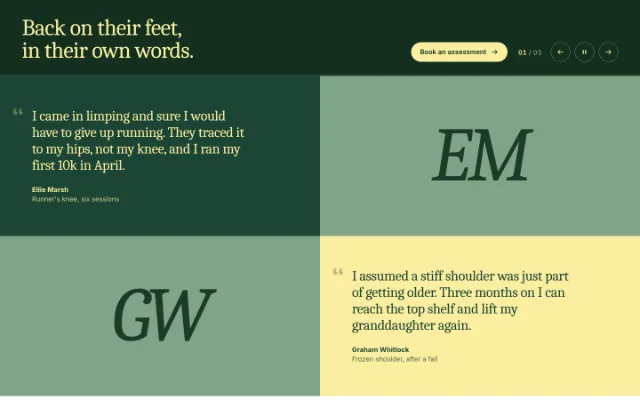
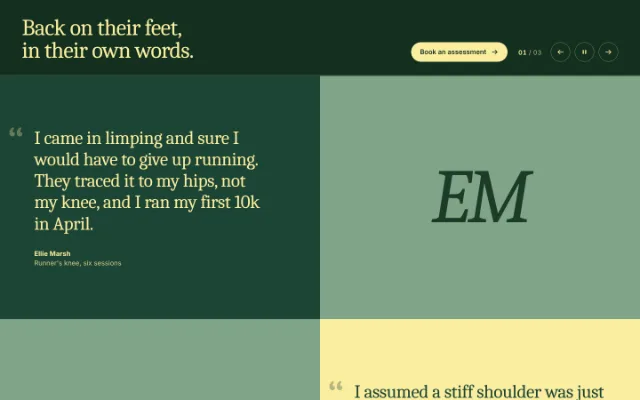
checker-quilt-testimonials: round 3 fixes
Faint mark that survives the entrance, one quote size per page, width-driven
4:3 tiles, centred quote column, phone pairs that still invert, stat/logo
plates, Unsplash srcset and an eager first page.

Claude-Session: https://claude.ai/code/session_014Z14Nfh3LUDx3ZeVcpeBG7

Changed region(s): [[0.0, 0.27, 1.0, 0.87], [0.0, 0.96, 1.0, 1.0], [0.5312, 0.87, 0.6875, 0.93]]

diff --git a/components/checker-quilt-testimonials/checker-quilt-testimonials.tsx b/components/checker-quilt-testimonials/checker-quilt-testimonials.tsx
@@ -48,6 +48,9 @@ export type Testimonial = {
   alt?: string
   /** CSS object-position for the portrait, e.g. "50% 30%". */
   focus?: string
+  /** Without a photo: a company logo URL for the plate, or a figure such as { value: "9 → 4", label: "days to close the month" }. */
+  logo?: string
+  stat?: { value: string; label: string }
 }
 
 export type CheckerQuiltTestimonialsProps = {
@@ -161,6 +164,14 @@ export function fitSize(lo: number, hi: number, fits: (n: number) => boolean): n
     else b = mid
   }
   return a
+}
+
+/** A width-based srcset for an images.unsplash.com URL; empty for any other host. */
+export function unsplashSrcSet(url: string): string {
+  if (!/^https:\/\/images\.unsplash\.com\//.test(url)) return ""
+  const base = url.replace(/([?&])w=\d+&?/, "$1").replace(/[?&]$/, "")
+  const sep = base.includes("?") ? "&" : "?"
+  return [600, 1200, 1800].map((w) => base + sep + "w=" + w + " " + w + "w").join(", ")
 }
 
 export function initials(name: string): string {
@@ -282,6 +293,10 @@ const css = `
 .cqt-photo[data-at="start"] { left: 0; }
 .cqt-photo[data-at="end"] { right: 0; }
 .cqt-plate { position: absolute; inset: 0; display: grid; place-items: center; color: var(--cq-plate-ink); background: var(--cq-plate); }
+.cqt-stat { display: grid; justify-items: center; gap: 10px; padding: 24px; text-align: center; }
+.cqt-stat b { font-family: var(--cq-qf); font-weight: 400; font-size: clamp(48px, 7cqi, 112px); line-height: 1; letter-spacing: -0.03em; }
+.cqt-stat span { font-size: 15px; line-height: 1.35; max-width: 22ch; opacity: 0.85; }
+.cqt-logo { width: 46%; height: 34%; object-fit: contain; max-width: none; }
 .cqt-mono { font-family: var(--cq-qf); font-style: italic; font-size: clamp(72px, 12cqi, 190px); line-height: 1; letter-spacing: -0.04em; opacity: 0.9; user-select: none; }
 .cqt-img { position: absolute; inset: 0; width: 100%; height: 100%; max-width: none; object-fit: cover; opacity: 0; transition: opacity 360ms ease; }
 .cqt-img[data-loaded="1"] { opacity: 1; }
@@ -297,13 +312,13 @@ const css = `
 
 .cqt-sweep { display: none; }
 
-.cqt-quote { position: absolute; top: 0; bottom: 0; width: 50%; z-index: 2; display: flex; flex-direction: column; justify-content: center; padding: clamp(48px, 5cqi, 88px) clamp(28px, 5cqi, 96px); }
+.cqt-quote { --cq-fs: 30px; position: absolute; top: 0; bottom: 0; width: 50%; z-index: 2; display: flex; flex-direction: column; justify-content: center; align-items: center; padding: clamp(48px, 5cqi, 88px) clamp(28px, 5cqi, 96px); padding-left: max(clamp(28px, 5cqi, 96px), calc(var(--cq-fs) * 1.45 + 16px)); }
 .cqt-quote[data-at="start"] { left: 0; }
 .cqt-quote[data-at="end"] { right: 0; }
-.cqt-words { --cq-fs: 30px; position: relative; transition: opacity 160ms ease, transform 160ms ease; }
+.cqt-words { position: relative; max-width: 100%; transition: opacity 160ms ease, transform 160ms ease; }
 .cqt-row[data-phase="cover"] .cqt-words { opacity: 0; transform: translateY(-8px); transition-delay: calc(var(--cq-cover-ms) - 130ms + var(--cq-rd, 0ms)); }
 .cqt-quotebody { position: relative; }
-.cqt-mark { position: absolute; left: -0.6em; top: -0.06em; font-family: var(--cq-qf); font-size: calc(var(--cq-fs) * 2.4); line-height: 0.8; opacity: 0.3; pointer-events: none; user-select: none; }
+.cqt-mark { position: absolute; left: -0.6em; top: -0.06em; font-family: var(--cq-qf); font-size: calc(var(--cq-fs) * 2.4); line-height: 0.8; color: color-mix(in srgb, currentColor 32%, transparent); pointer-events: none; user-select: none; }
 .cqt-text { margin: 0; font-family: var(--cq-qf); font-weight: 400; font-size: var(--cq-fs); line-height: 1.13; letter-spacing: -0.018em; text-wrap: pretty; max-width: 27ch; hanging-punctuation: first; }
 .cqt-words[data-size="m"] .cqt-text { line-height: 1.15; max-width: 30ch; }
 .cqt-words[data-size="s"] .cqt-text { line-height: 1.18; max-width: 33ch; }
@@ -329,20 +344,22 @@ SCOPE .cqt-band { flex-direction: column; align-items: stretch; gap: 20px; }
 SCOPE .cqt-controls { width: 100%; }
 SCOPE .cqt-cta { flex: 1 0 100%; justify-content: center; margin: 0 0 6px; }
 SCOPE .cqt-count { margin: 0 auto 0 0; }
-SCOPE .cqt-quilt { height: var(--cq-hm); }
-SCOPE .cqt-photo { width: auto; left: 0; right: 0; top: 50%; bottom: 0; }
+SCOPE .cqt-quilt { height: var(--cq-hm); grid-template-rows: minmax(0, 1fr); }
+SCOPE .cqt-row:nth-child(n+2) { display: none; }
+SCOPE .cqt-photo, SCOPE .cqt-quote { width: auto; left: 0; right: 0; height: 50%; }
+SCOPE .cqt-photo[data-at="start"], SCOPE .cqt-quote[data-at="start"] { top: 0; bottom: auto; }
+SCOPE .cqt-photo[data-at="end"], SCOPE .cqt-quote[data-at="end"] { top: auto; bottom: 0; }
+SCOPE .cqt-quote { padding: 24px; align-items: stretch; }
 SCOPE .cqt-mono { font-size: clamp(72px, 26cqi, 150px); }
-SCOPE .cqt-row .cqt-field, SCOPE .cqt-row[data-phase] .cqt-field { clip-path: inset(-1px -1px 50% -1px); transition: background-color 300ms ease; }
-SCOPE .cqt-sweep { display: block; position: absolute; left: 0; right: 0; top: 50%; bottom: 0; z-index: 1; clip-path: inset(-1px -1px -1px 100%); }
+SCOPE .cqt-row[data-side="start"] .cqt-field, SCOPE .cqt-row[data-side="start"][data-phase] .cqt-field { clip-path: inset(-1px -1px 50% -1px); transition: background-color 300ms ease; }
+SCOPE .cqt-row[data-side="end"] .cqt-field, SCOPE .cqt-row[data-side="end"][data-phase] .cqt-field { clip-path: inset(50% -1px -1px -1px); transition: background-color 300ms ease; }
+SCOPE .cqt-sweep { display: block; position: absolute; inset: 0; z-index: 1; clip-path: inset(-1px -1px -1px 100%); }
 SCOPE .cqt-row[data-dir="prev"] .cqt-sweep { clip-path: inset(-1px 100% -1px -1px); }
 SCOPE .cqt-row[data-phase="cover"] .cqt-sweep { clip-path: inset(-1px); transition: clip-path var(--cq-cover-ms) var(--cq-sweep), background-color 300ms ease; }
 SCOPE .cqt-row[data-phase="reveal"] .cqt-sweep { clip-path: inset(-1px 100% -1px -1px); transition: clip-path var(--cq-reveal-ms) var(--cq-ease), background-color 300ms ease; }
 SCOPE .cqt-row[data-phase="reveal"][data-dir="prev"] .cqt-sweep { clip-path: inset(-1px -1px -1px 100%); }
-SCOPE .cqt-quote { width: auto; left: 0; right: 0; top: 0; bottom: 50%; padding: 28px 24px; }
 SCOPE .cqt-text { max-width: none; }
 SCOPE .cqt-mark { position: static; display: block; height: 0.4em; margin: 0 0 0.12em -0.05em; }
-SCOPE .cqt-quilt { grid-template-rows: minmax(0, 1fr); }
-SCOPE .cqt-row:nth-child(n+2) { display: none; }
 `
 
 function stackedCss(scope: string, below: number): string {
@@ -358,7 +375,7 @@ const LOADED = new Set() as Set<string>
 
 const useIsoLayoutEffect = typeof window === "undefined" ? React.useEffect : React.useLayoutEffect
 
-function Portrait({ t, settle }: { t: Testimonial; settle: boolean }) {
+function Portrait({ t, settle, eager }: { t: Testimonial; settle: boolean; eager: boolean }) {
   const cached = !!t.photo && LOADED.has(t.photo)
   const [loaded, setLoaded] = React.useState(cached)
   const [failed, setFailed] = React.useState(false)
@@ -373,8 +390,19 @@ function Portrait({ t, settle }: { t: Testimonial; settle: boolean }) {
   const showInitials = !t.photo || failed
   return (
     <div className={settle ? "cqt-settle" : undefined} style={settle ? undefined : { position: "absolute", inset: 0 }}>
-      <div className="cqt-plate" aria-hidden="true">
-        {showInitials ? <span className="cqt-mono">{initials(t.name)}</span> : null}
+      <div className="cqt-plate" aria-hidden={t.stat ? undefined : true}>
+        {showInitials ? (
+          t.logo ? (
+            <img className="cqt-logo" src={t.logo} alt="" width={320} height={160} draggable={false} style={{ maxWidth: "none" }} />
+          ) : t.stat ? (
+            <p className="cqt-stat" style={{ margin: 0 }}>
+              <b>{t.stat.value}</b>
+              <span>{t.stat.label}</span>
+            </p>
+          ) : (
+            <span className="cqt-mono">{initials(t.name)}</span>
+          )
+        ) : null}
       </div>
       {t.photo && !failed ? (
         <img
@@ -385,7 +413,8 @@ function Portrait({ t, settle }: { t: Testimonial; settle: boolean }) {
           width={1200}
           height={1200}
           decoding="async"
-          loading="lazy"
+          loading={eager ? "eager" : "lazy"}
+          srcSet={unsplashSrcSet(t.photo) || undefined}
           sizes="(max-width: 720px) 100vw, 50vw"
           draggable={false}
           data-loaded={loaded ? "1" : "0"}
@@ -412,6 +441,7 @@ function QuoteTile({
   delay,
   lead,
   contentKey,
+  onFitted,
 }: {
   t: Testimonial
   side: "start" | "end"
@@ -421,6 +451,7 @@ function QuoteTile({
   delay: number
   lead: number
   contentKey: string
+  onFitted: () => void
 }) {
   const figRef = React.useRef(null as HTMLElement | null)
   const wordsRef = React.useRef(null as HTMLDivElement | null)
@@ -436,13 +467,15 @@ function QuoteTile({
     if (availH <= 0 || availW <= 0) return
     const cap = narrow ? { l: 30, m: 27, s: 24 }[size] : { l: 50, m: 42, s: 35 }[size]
     const hi = Math.min(cap, availW / (narrow ? 11 : 12))
-    const set = (n: number) => words.style.setProperty("--cq-fs", n + "px")
+    const set = (n: number) => fig.style.setProperty("--cq-fs", n + "px")
     const best = fitSize(15, hi, (n) => {
       set(n)
       return words.offsetHeight <= availH
     })
     set(best)
-  }, [narrow, size])
+    fig.dataset.fit = String(best)
+    onFitted()
+  }, [narrow, size, onFitted])
 
   useIsoLayoutEffect(() => {
     fit()
@@ -501,8 +534,8 @@ export default function CheckerQuiltTestimonials({
   rows = 2,
   autoplay = 8000,
   defaultPage = 0,
-  height = "clamp(560px, 80svh, 960px)",
-  mobileHeight = "760px",
+  height = "clamp(560px, 76cqi, 1180px)",
+  mobileHeight = "min(700px, calc(100svh - 120px))",
   stackBelow = 720,
   quoteFont = '"Iowan Old Style", "Palatino Linotype", Palatino, Charter, "Bitstream Charter", "Sitka Text", Cambria, Georgia, serif',
   uiFont = 'ui-sans-serif, system-ui, -apple-system, "Segoe UI", Inter, Roboto, sans-serif',
@@ -687,6 +720,21 @@ export default function CheckerQuiltTestimonials({
     "--cq-uf": uiFont,
   } as React.CSSProperties
 
+  // Every quote on a page shares one size: the smallest any visible tile can take.
+  const quiltRef = React.useRef(null as HTMLDivElement | null)
+  const syncSizes = React.useCallback(() => {
+    const q = quiltRef.current
+    if (!q) return
+    const figs = Array.from(q.querySelectorAll(".cqt-quote")) as HTMLElement[]
+    const shown = figs.filter((f) => f.offsetParent !== null && f.dataset.fit)
+    if (!shown.length) return
+    const min = Math.min(...shown.map((f) => Number(f.dataset.fit)))
+    shown.forEach((f) => f.style.setProperty("--cq-fs", min + "px"))
+  }, [])
+  useIsoLayoutEffect(() => {
+    syncSizes()
+  })
+
   const headingId = React.useId()
   const scope = '.cqt[data-cq="' + headingId + '"]'
 
@@ -754,6 +802,9 @@ export default function CheckerQuiltTestimonials({
       </div>
 
       <div
+        ref={(el) => {
+          quiltRef.current = el
+        }}
         className="cqt-quilt"
         role="group"
         tabIndex={0}
@@ -764,8 +815,8 @@ export default function CheckerQuiltTestimonials({
         onPointerCancel={() => (swipe.current = null)}
       >
         {current.map((t, row) => {
-          // On a narrow container the quote stays on top and the photo below; the sweep runs sideways.
-          const side = narrow ? "start" : fieldSide(page, row)
+          // On a narrow container the pair stacks; quote and photo still trade places each step, under a sideways sweep.
+          const side = fieldSide(page, row)
           const photoAt = side === "start" ? "end" : "start"
           const tone = fieldTone(page, row, perPage)
           const fill = tone === "a" ? "var(--cq-a)" : "var(--cq-b)"
@@ -784,7 +835,7 @@ export default function CheckerQuiltTestimonials({
               style={{ background: fill }}
             >
               <div className="cqt-photo" data-at={photoAt}>
-                <Portrait key={key} t={t} settle={step > 0 && !reduced} />
+                <Portrait key={key} t={t} settle={step > 0 && !reduced} eager={step === 0} />
               </div>
               <div className="cqt-field" aria-hidden="true" style={{ background: fill, transitionDelay: delay + "ms" }} />
               <div className="cqt-sweep" aria-hidden="true" style={{ background: fill }} />
@@ -797,6 +848,7 @@ export default function CheckerQuiltTestimonials({
                 delay={delay}
                 lead={tm.lead}
                 contentKey={key}
+                onFitted={syncSizes}
               />
             </div>
           )

diff --git a/components/checker-quilt-testimonials/demo-text-only.tsx b/components/checker-quilt-testimonials/demo-text-only.tsx
@@ -1,6 +1,6 @@
 import CheckerQuiltTestimonials from "@/components/ui/checker-quilt-testimonials"
 
-// No photos: every portrait tile becomes a monogram plate in the preset's third tone.
+// No photos: the plates carry a figure from each story instead (a logo URL works too).
 export default function CheckerQuiltTextOnlyDemo() {
   return (
     <div className="w-full">
@@ -14,21 +14,25 @@ export default function CheckerQuiltTextOnlyDemo() {
             quote: "Month-end used to take us nine working days. We closed September in four, and nobody stayed past six.",
             name: "Amara Okafor",
             context: "Controller, Fieldnote Coffee",
+            stat: { value: "9 → 4", label: "working days to close the month" },
           },
           {
             quote: "The receipt matching alone pays for it. Our auditors asked which firm we had hired.",
             name: "Jonas Weber",
             context: "CFO, Brightline Studio",
+            stat: { value: "2,140", label: "receipts matched in the first week" },
           },
           {
             quote: "I approve spend from my phone between site visits. The team stopped chasing me on Slack.",
             name: "Lucía Herrera",
             context: "Founder, Herrera Build",
+            stat: { value: "38 s", label: "median time to approve a purchase" },
           },
           {
             quote: "Setup took an afternoon. It read our old spreadsheets better than we did.",
             name: "Sam Patel",
             context: "Operations lead, Northpaw Vets",
+            stat: { value: "1 afternoon", label: "from sign-up to first report" },
           },
         ]}
       />

diff --git a/components/checker-quilt-testimonials/README.md b/components/checker-quilt-testimonials/README.md
@@ -14,13 +14,17 @@ The fields trade places, so the checkerboard inverts every step.
 - `←` / `→` on the focused quilt, and swipe on touch.
 - Each quote's type is fitted to its tile (largest size that fits, refitted on resize), so
   a long quote never clips at any height.
-- Narrow containers (under `stackBelow`, 720px by default) show one pair: the quote on top,
-  the photo below, and a field-coloured sweep that crosses the photo in the swipe direction.
+- Every quote on a page shares one type size, so the two rows read as a set.
+- Narrow containers (under `stackBelow`, 720px by default) show one stacked pair. Quote and
+  photo still trade places each step, under a field-coloured sweep that crosses the pair in
+  the swipe direction.
   The stacked layout is a CSS container query, so it follows the component's own width and
   the first paint on a phone is already stacked.
 - Photos are optional. A testimonial without one (or whose photo fails) gets a plate in the
-  preset's third tone with the person's initials, so a text-only quilt still reads as four
-  tiles (see `demo-text-only.tsx`).
+  preset's third tone carrying a logo, a figure from the story, or the person's initials, so a
+  text-only quilt still reads as four tiles (see `demo-text-only.tsx`).
+- The first page's portraits load eagerly; later pages are lazy and preloaded one step ahead.
+  Unsplash URLs get a 600/1200/1800w `srcset`.
 
 No dependencies. Styles are scoped to `.cqt` in one inline `<style>`.
 
@@ -28,7 +32,7 @@ No dependencies. Styles are scoped to `.cqt` in one inline `<style>`.
 
 | Prop | Default | |
 |---|---|---|
-| `testimonials` | 6 physio-clinic patients | `{ quote, name, context?, photo?, alt?, focus? }[]`. `focus` is a CSS `object-position`. Quotes up to about 240 characters; the type steps down for long ones. |
+| `testimonials` | 6 physio-clinic patients | `{ quote, name, context?, photo?, alt?, focus?, logo?, stat? }[]`. Without a photo, the plate shows `logo` (an image URL), else `stat` (`{ value, label }`), else initials. `focus` is a CSS `object-position`. Quotes up to about 240 characters; the type steps down for long ones. |
 | `heading` | "Back on their feet, in their own words." | Any node. Pass `null` to drop it (then `ariaLabel` names the section). |
 | `cta` | none | `{ label, href?, onClick? }`, shown in the heading band. |
 | `preset` | `"bottle"` | `bottle` (green / butter), `oxblood` (wine / blush), `marigold` (ink / marigold), `mint`, `cobalt`. |
@@ -36,8 +40,8 @@ No dependencies. Styles are scoped to `.cqt` in one inline `<style>`.
 | `rows` | `2` | Pairs per step on a wide container. `1` gives a single wide pair. |
 | `autoplay` | `8000` | ms per step. `0` turns it off. |
 | `defaultPage` | `0` | Page shown first. |
-| `height` | `clamp(560px, 80svh, 960px)` | Height of the quilt on a wide container. The heading band adds about 180px, so both fit a 900px-tall screen. |
-| `mobileHeight` | `760px` | Height of the stacked pair on a narrow container. |
+| `height` | `clamp(560px, 76cqi, 1180px)` | Height of the quilt on a wide container. Follows the component's width, so tiles stay near 4:3 like portraits. |
+| `mobileHeight` | `min(700px, calc(100svh - 120px))` | Height of the stacked pair on a narrow container. |
 | `stackBelow` | `720` | Container width in px below which it stacks. |
 | `quoteFont` / `uiFont` | system serif / system sans | Pass your own stacks, e.g. `"var(--font-serif)"`. |
 | `onChange` | none | Called with the page index after each step. |
@@ -47,7 +51,7 @@ No dependencies. Styles are scoped to `.cqt` in one inline `<style>`.
 
 - `demo.tsx`: a physio clinic, bottle preset, two rows, with photos.
 - `demo-wine-bar.tsx`: a wine bar's regulars, oxblood preset.
-- `demo-text-only.tsx`: a finance product with no photos, mint preset, autoplay off.
+- `demo-text-only.tsx`: a finance product with no photos (figures on the plates), mint preset, autoplay off.
 
 ## Usage
 

diff --git a/media/checker-quilt-testimonials/review.md b/media/checker-quilt-testimonials/review.md
@@ -86,3 +86,36 @@ Changes made:
 5. `demo-text-only.tsx` (mint preset, no photos, autoplay off) shows a different configuration.
 6. `loading="lazy"` and `sizes` on portraits; Graham's focus moved to 50% 45%.
 7. `defaultPage` prop; `cta` takes `onClick`; README synced.
+
+## Round 3: REDO (average 7.2), the last critic round
+
+Scores: usability 8, idea 7, craft 6, originality 6, install-safety 9.
+
+Main findings: the quote mark went from faint to solid after the first step (the rise
+animation's `opacity: 1` overrode the mark's 0.3); two quotes on one page at different sizes
+(32 vs 41px); photo tiles 2:1 at 1440 (the reference is about 0.9:1), cropping foreheads and
+chins; quote blocks hugging the left of their tiles; the hanging mark 5px from the edge at
+768; on phones the checkerboard was lost (the quote always on top) and the section ran past
+the screen; text-only plates read as filler; `sizes` without `srcset`, and a lazy first page.
+
+Changes made after round 3 (verified by screenshots and measurements, not re-scored, since the
+brief allows three critic rounds):
+1. The mark's faintness is now its colour (`color-mix` at 32%), so the entrance animation
+   cannot override it. Test asserts no opacity on the mark.
+2. Default `height` follows the component's width, `clamp(560px, 76cqi, 1180px)`: tiles are
+   720×547 at 1440 (about 4:3) instead of 720×360.
+3. All visible quotes on a page share the smallest fitted size (41 to 42px on desktop now).
+4. The quote column is centred in its tile, and the left padding grows with the type so the
+   hanging mark keeps at least 16px from the edge (measured 16px at 1440 and 768).
+5. Phones: quote and photo trade places every step under a full-pair sideways sweep, so the
+   inversion survives; `mobileHeight` defaults to `min(700px, calc(100svh - 120px))`.
+6. A plate without a photo can carry a `logo` URL or a `stat` (`{ value, label }`) instead of
+   initials; the text-only demo uses figures ("9 → 4 working days to close the month").
+7. Unsplash URLs get a 600/1200/1800w `srcset`; the first page loads eagerly.
+
+## Status
+
+No SHIP after three critic rounds, so per the brief this piece lives on
+`claude/review-checker-quilt-testimonials` for the owner to judge. The biggest thing the
+cloud could not do: see or choose new Unsplash photos (the host is blocked here), which round 1
+and round 3 both flagged. Swapping in documentary portraits is the first thing to try.
